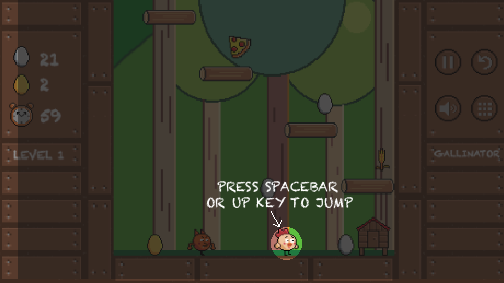
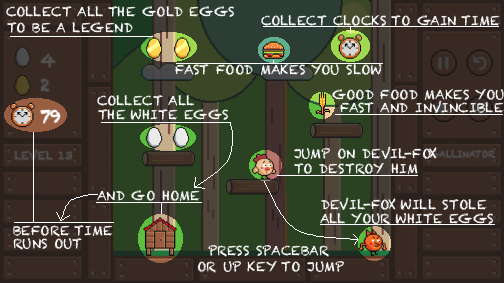
ok

diff --git a/scripts/game.js b/scripts/game.js
@@ -378,6 +378,21 @@ window.addEventListener("load",function() {
             }
           });
 
+          var buttonhow = container2.insert(new Q.UI.Button({ asset:"howbutton.png" ,x: 62, y: 87}));
+
+          buttonhow.on("click",function() {
+            if (!Q.state.get("pause")){
+              Q.state.set("pause",true);
+              Q.stage(0).pause();
+              Q.stage(1).pause();
+              //Q.stage(3).pause();
+              Q.clearStage(3);
+              Q.audio.stop();
+              Q.state.set("papagenofast",false);
+              Q.stageScene("howtoplay",2, { });
+            }
+          });
+
           var label = container2.insert(new Q.UI.Text({x:30, y: 150,size:9,family:"chalkduster,Mansalva,courier",align:"left",
           label: "GALLINATOR" , color: "white",outlineWidth:0,opacity:1 }));
     //console.log(container);
@@ -484,7 +499,7 @@ window.addEventListener("load",function() {
                   Q.state.set("levelEggs[8]",1);
                     Q.state.set("levelEggs[9]",2);*/
 
-        var image = container.insert(new Q.Sprite({asset:"howtoplay.png",x:0, y: 0}));
+        var image = container.insert(new Q.Sprite({asset:"levels.png",x:0, y: 0}));
         //console.log("hola");
         //var buttonPause = container.insert(new Q.UI.Button({ asset:"gallinafrozenpause.png",x: 2, y: 2, family:"courier",align:"center",scale:5}));
         var buttonClose = container.insert(new Q.UI.Button({ asset:"close.png" ,x: 230, y: -44}));
@@ -539,6 +554,42 @@ window.addEventListener("load",function() {
           }
         });
 
+
+
+
+        Q.scene('howtoplay',function(stage) {
+          var container = stage.insert(new Q.UI.Container({
+            x: Q.width/2, y: Q.height/2,w:Q.width,h:Q.height, fill: "rgba(0,0,0,0.8)"
+          }));
+
+
+          var image = container.insert(new Q.Sprite({asset:"howtoplay.png",x:0, y: 0}));
+          //console.log("hola");
+          //var buttonPause = container.insert(new Q.UI.Button({ asset:"gallinafrozenpause.png",x: 2, y: 2, family:"courier",align:"center",scale:5}));
+          var buttonClose = container.insert(new Q.UI.Button({ asset:"close.png" ,x: 228, y: -79}));
+          //var label = container.insert(new Q.UI.Text({x:0, y: buttonPause.p.h*1.5  ,family:"courier",align:"center",label: "paused" }));
+            buttonClose.on("click",function() {
+              Q.stage(0).unpause();
+              if ( Q.stage(1)==null ){
+                Q.stageScene("portada");
+              }else{
+                Q.stage(1).unpause();
+                //Q.stage(3).unpause();
+                Q.state.set("pause",false);
+                Q.clearStage(2);
+                if (!Q.state.get("mute")&&!Q.state.get("muteMusic")){
+                  Q.audio.stop('papageno.mp3');
+                  Q.audio.play('papageno.mp3',{ loop: true });
+                }
+              }
+            });
+          });
+
+
+
+
+
+
       Q.scene('portada',function(stage) {
 
         var container = stage.insert(new Q.UI.Container({
@@ -575,7 +626,7 @@ window.addEventListener("load",function() {
     Q.load("gallinafrozen.png,muelle.png,muelle.json,portada.png,nextlevelgood.png,nextlevelsuper.png,nextlevellose.png,hudegg.png,tickegg.png,hudreloj.png,hudegggolden.png,egggolden.png,egggolden.json,egg.png,egg.json,extras.png,extras.json,pause.png,restart.png,mute.png,unmute.png,muteMusic.png,play.png,next.png,maderabackground.png,gallina.png,gallina.json,   home.png,home.json,levels.png,choselevel.png,close.png,changeDirection.png,changeDirection.json,loseEggs.png,loseEggs.json,zorro.png,zorro.json,plataformas.png,plataformas.json");
     Q.load("frozen.mp3,eat.mp3,supersalto.mp3,egg.mp3,salto.mp3,egggolden.mp3,home.mp3,clock.mp3,changeDirection.mp3,loseEggs.mp3,fox.mp3,ohh.mp3");
     Q.load("papageno.mp3,papagenofast.mp3");
-    Q.loadTMX("howtoplay.png,level1.tmx,level2.tmx,level3.tmx,level4.tmx,level5.tmx,level6.tmx,level7.tmx,level8.tmx,level9.tmx,level10.tmx,level11.tmx,level12.tmx,level13.tmx,level14.tmx,level15.tmx,level16.tmx,level17.tmx,level18.tmx,level19.tmx,level20.tmx,background1-1.png,background2-1.png,background3-1.png,background4-1.png,background1-2.png,background2-2.png,background3-2.png,background4-2.png,background1-3.png,background2-3.png,background3-3.png,background4-3.png,background1-4.png,background2-4.png,background3-4.png,background4-4.png,background1-5.png,background2-5.png,background3-5.png,background4-5.png,background1-6.png,background2-6.png,background3-6.png,background4-6.png,background1-7.png,background2-7.png,background3-7.png,background4-7.png,background1-8.png,background2-8.png,background3-8.png,background4-8.png,background1-9.png,background2-9.png,background3-9.png,background4-9.png,background1-10.png,background2-10.png,background3-10.png,background4-10.png,background1-11.png,background2-11.png,background3-11.png,background4-11.png,background1-12.png,background2-12.png,background3-12.png,background4-12.png,background1-13.png,background2-13.png,background3-13.png,background4-13.png,background1-14.png,background2-14.png,background3-14.png,background4-14.png,background1-15.png,background2-15.png,background3-15.png,background4-15.png,background1-16.png,background2-16.png,background3-16.png,background4-16.png,background1-17.png,background2-17.png,background3-17.png,background4-17.png,background1-18.png,background2-18.png,background3-18.png,background4-18.png,background1-19.png,background2-19.png,background3-19.png,background4-19.png,background1-20.png,background2-20.png,background3-20.png,background4-20.png", function() {
+    Q.loadTMX("howtoplay.png,howbutton.png,level1.tmx,level2.tmx,level3.tmx,level4.tmx,level5.tmx,level6.tmx,level7.tmx,level8.tmx,level9.tmx,level10.tmx,level11.tmx,level12.tmx,level13.tmx,level14.tmx,level15.tmx,level16.tmx,level17.tmx,level18.tmx,level19.tmx,level20.tmx,background1-1.png,background2-1.png,background3-1.png,background4-1.png,background1-2.png,background2-2.png,background3-2.png,background4-2.png,background1-3.png,background2-3.png,background3-3.png,background4-3.png,background1-4.png,background2-4.png,background3-4.png,background4-4.png,background1-5.png,background2-5.png,background3-5.png,background4-5.png,background1-6.png,background2-6.png,background3-6.png,background4-6.png,background1-7.png,background2-7.png,background3-7.png,background4-7.png,background1-8.png,background2-8.png,background3-8.png,background4-8.png,background1-9.png,background2-9.png,background3-9.png,background4-9.png,background1-10.png,background2-10.png,background3-10.png,background4-10.png,background1-11.png,background2-11.png,background3-11.png,background4-11.png,background1-12.png,background2-12.png,background3-12.png,background4-12.png,background1-13.png,background2-13.png,background3-13.png,background4-13.png,background1-14.png,background2-14.png,background3-14.png,background4-14.png,background1-15.png,background2-15.png,background3-15.png,background4-15.png,background1-16.png,background2-16.png,background3-16.png,background4-16.png,background1-17.png,background2-17.png,background3-17.png,background4-17.png,background1-18.png,background2-18.png,background3-18.png,background4-18.png,background1-19.png,background2-19.png,background3-19.png,background4-19.png,background1-20.png,background2-20.png,background3-20.png,background4-20.png", function() {
       Q.compileSheets("plataformas.png","plataformas.json");
       Q.compileSheets("gallina.png","gallina.json");
       Q.compileSheets("zorro.png","zorro.json");

diff --git a/index.html b/index.html
@@ -3,7 +3,7 @@
   <head>
     <meta charset="UTF-8">
     <title>gallinator</title>
-    <link href="https://fonts.googleapis.com/css?family=Caveat+Brush|Dokdo|Mansalva|Permanent+Marker&display=swap" rel="stylesheet">
+    <link href="https://fonts.googleapis.com/css?family=Mansalva&display=swap" rel="stylesheet">
     <script src="lib/quintus.js"></script>
     <script src="lib/quintus_sprites.js"></script>
     <script src="lib/quintus_scenes.js"></script>
